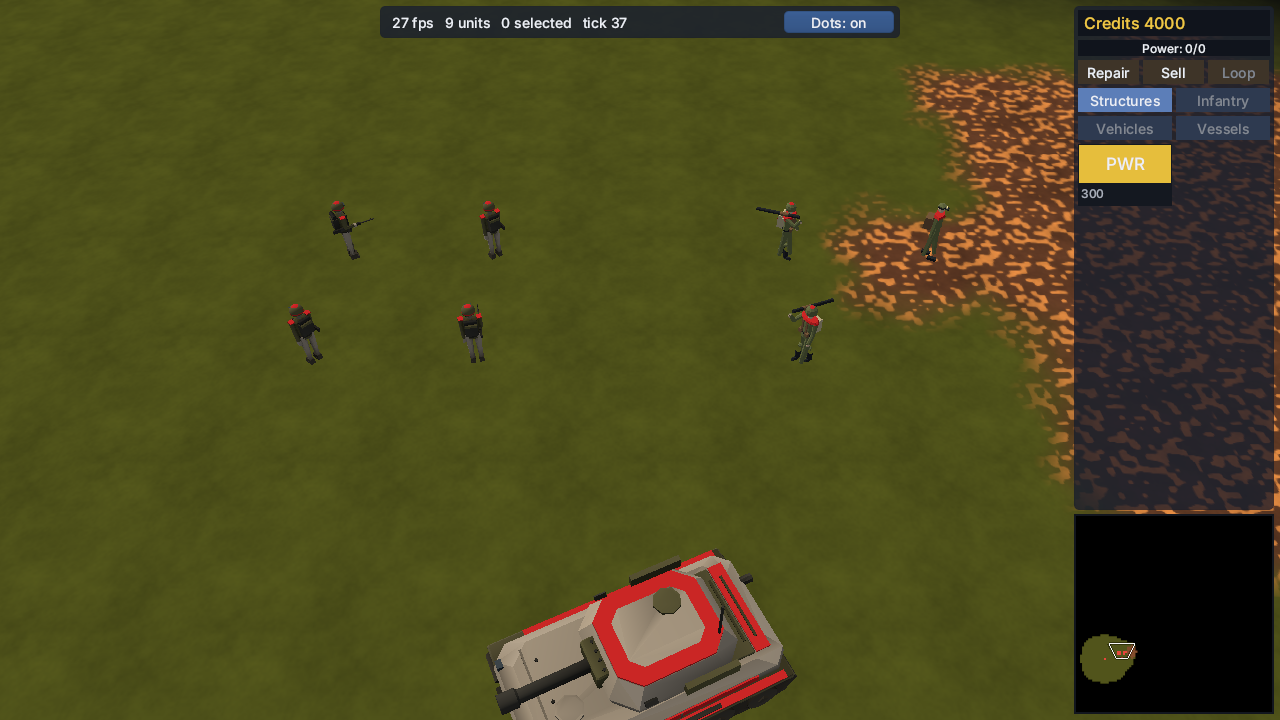
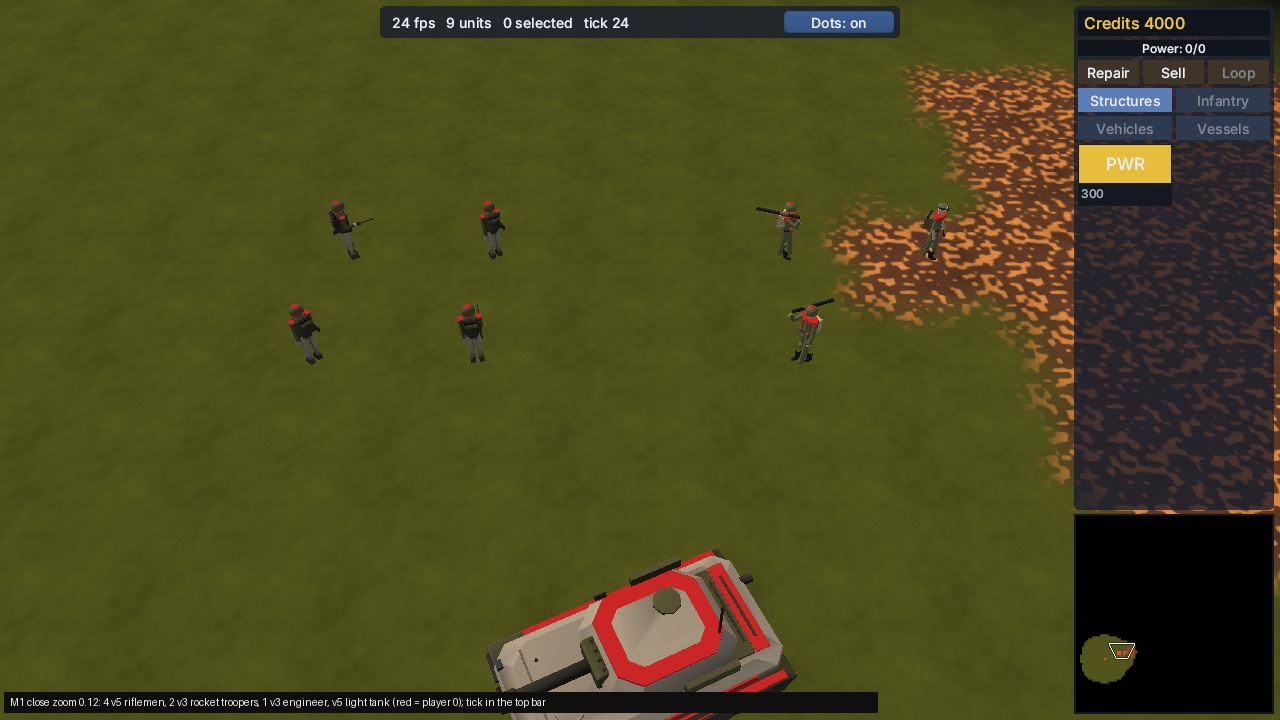
WP11.6i fix round: in-game walk strips, labelled shots, docs on LOD and cadence
Claude-Session: https://claude.ai/code/session_01E9comaZi2PE6iTmoHWTfFn

Changed region(s): [[0.0, 0.9472, 0.6875, 1.0], [0.3125, 0.0306, 0.5, 0.0611], [0.7188, 0.3056, 0.75, 0.3361]]

diff --git a/docs/art-style.md b/docs/art-style.md
@@ -451,9 +451,9 @@ check; only the `rifleman` role points at them, every other figure stays set v3.
   turned (16 segments, smooth normals) and Veyran's are chamfered rings (faceted); boots, pouches,
   straps, backpack and rifle are boxes in both. LOD1 and LOD2 are plain boxes (LOD1 with a 4-sided
   helmet) and the same shapes for both factions; only colours and the helmet's place differ. Which
-  level the game draws: a figure of 1.8 m (diameter about 1.9 m) switches to LOD1 below 60 px and to
-  LOD2 below 30 px of projected size; at the default zoom (0.30, model scale about 1) it is near the
-  LOD1/LOD2 switch, so the round LOD0 shows only when zoomed in. Colours: Meridian olive jacket and helmet, sand
+  level the game draws (measured in M1, `docs/screenshots/wp11.6i/`): LOD0 at zoom 0.12, LOD1 at the
+  default zoom 0.30 (the 7 figures at LOD1, the tank and the centre at LOD0), LOD2 at zoom 0.94. So
+  the rounded Meridian shape shows only zoomed in; at the default zoom both factions are boxes. Colours: Meridian olive jacket and helmet, sand
   trousers and face, dark webbing; Veyran grey-blue uniform, gunmetal kit and helmet, metal face
   guard, the crimson accent as a small chest and helmet mark.
 - **Team colour**: the helmet's top patch and band, a pad on each shoulder, a chest panel. Top-down

diff --git a/docs/progress.md b/docs/progress.md
@@ -4048,3 +4048,10 @@ Branch `wp/11.6d-decor`, built on `wp/11.6p-palette` (the realistic palette and 
 * **Pictures** in `docs/screenshots/wp11.6i/`. The PR waits for Tijmen's style check.
 * **Not done**: firing or other poses, the other infantry, GIF (no encoder in the workspace), shadow and
   team-colour shading (separate engine WP).
+* **Fix round 1** (before the first review): the further parts of a draw record moved to a side list
+  (record 48 bytes, main 64, inline for 8 parts would be 96); the walk state is reset when a slot gets a new
+  unit; the runner's frame time goes through `runner::unit_view` (pinned); joint-check near misses and
+  `MAX_PARTS` = 8 pinned; cadence 30° / 1.80 m (3.1 steps/s at 2.8 m/s, was 3.8); a release measurement
+  (`crates/sf_render/tests/walk_bench.rs`, ignored) of 200 moving units: 32.8 µs per frame build for v5
+  riflemen (1200 part instances) against 9.0 µs for v3 riflemen (200) and 15.1 µs for light tanks (600),
+  load average 6-9; in-game walk strips and labelled in-game shots, the far shot at zoom 0.94.
